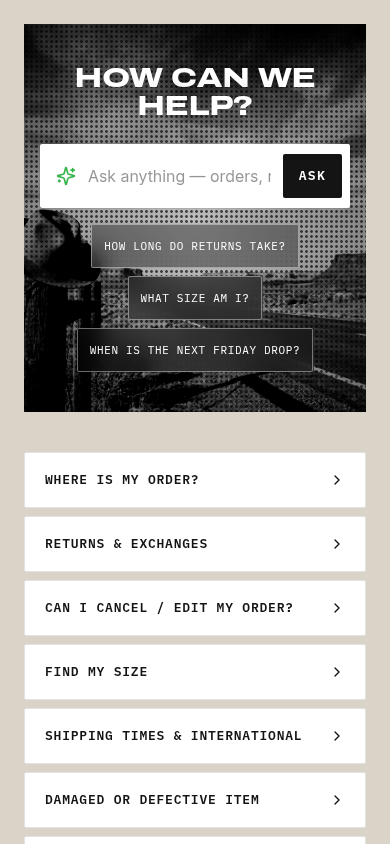
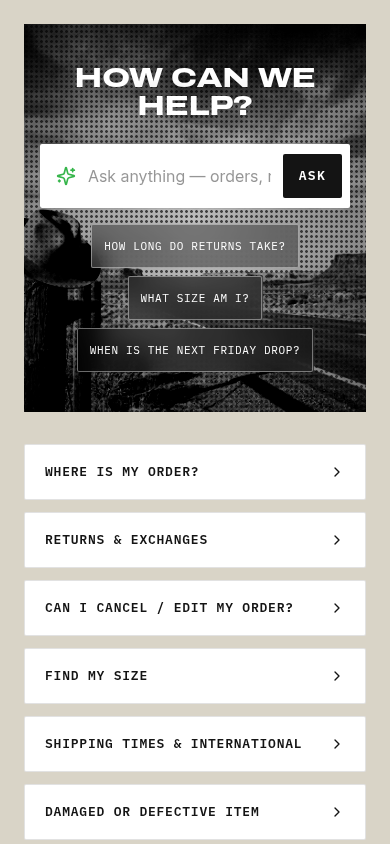
The Help Center home page now has 10 question boxes in 5 rows of 2, with more space throughout.
- **Removed:** Cleaning & care, Is my Goorin authentic?, Manufacturer guarantee, and Custom orders & embroidery. Their answers still come up if a customer types those questions into the search.
- **Spacing:** wider gaps between boxes, slightly taller boxes, and more room between the search banner, the boxes and the "Still need help?" line. Everything lines up on the same left and right edges.
- **Phones:** one column with comfortable gaps and no sideways scrolling.

I haven't opened the new screenshots myself yet, and there was no separate test run. Answers are still MOCKED.

Emergent-Commit-Key: 2fc6b4989215d99352b318223bae48a6ccec8bd7826fd690938668d7627f29c4

Changed region(s): [[0.0615, 0.7393, 0.9538, 1.0], [0.0615, 0.5237, 0.9538, 0.6777]]

diff --git a/frontend/src/pages/HelpHomePage.tsx b/frontend/src/pages/HelpHomePage.tsx
@@ -7,8 +7,7 @@ import { ChatLine, Thinking, useAsk } from '@/components/help/helpKit'
 const QUICK: [label: string, q: string][] = [
   ['Where is my order?', 'Where is my order?'], ['Returns & exchanges', 'How do I start a return?'], ['Can I cancel / edit my order?', 'Can I cancel / edit my order?'],
   ['Find my size', 'What size am I?'], ['Shipping times & international', 'How long does shipping take?'], ['Damaged or defective item', 'My hat arrived damaged'],
-  ['Friday Drops info', 'How do Friday Drops work?'], ['Payments & gift cards', 'Payment methods we accept'], ['Cleaning & care', 'How do I clean my hat?'],
-  ['Is my Goorin authentic?', 'Is my Goorin authentic?'], ['Manufacturer guarantee', 'What does the guarantee cover?'], ['Custom orders & embroidery', 'Do you do custom embroidery?'],
+  ['Friday Drops info', 'How do Friday Drops work?'], ['Payments & gift cards', 'Payment methods we accept'],
   ['Wholesale inquiry', 'Wholesale inquiry'], ['Brand ambassadors & talent', 'Brand ambassadors & talent inquiry'],
 ]
 const POPULAR = ['How long do returns take?', 'What size am I?', 'When is the next Friday Drop?']
@@ -17,7 +16,7 @@ export default function HelpHomePage() {
   const { answer, busy, ask, ref } = useAsk()
   return (
     <HelpShell>
-      <div className="mx-auto max-w-[1200px] space-y-12 max-sm:space-y-10">
+      <div className="mx-auto max-w-[1200px]">
         <section className="hc-halftone hc-hero relative flex h-[320px] items-center justify-center px-6 max-sm:h-auto max-sm:px-4 max-sm:py-10" data-testid="help-hero">
           <img src="/images/help/hero-desert.jpg" alt="" className="absolute inset-0 h-full w-full object-cover" />
           <div className="relative z-10 w-full max-w-[720px] text-center">
@@ -29,19 +28,19 @@ export default function HelpHomePage() {
           </div>
         </section>
 
-        <div ref={ref} className="scroll-mt-6 empty:hidden">
-          {(busy || answer) && <div className="mx-auto max-w-[960px]">{busy ? <Thinking /> : answer && <AnswerCard key={answer.q} a={answer} onAsk={ask} />}</div>}
+        <div ref={ref} className="scroll-mt-6">
+          {(busy || answer) && <div className="mx-auto mt-12 max-w-[960px] max-sm:mt-8">{busy ? <Thinking /> : answer && <AnswerCard key={answer.q} a={answer} onAsk={ask} />}</div>}
         </div>
 
-        <section className="grid grid-cols-2 gap-2 max-sm:grid-cols-1" aria-label="Quick questions" data-testid="help-quick">
+        <section className="mt-12 grid grid-cols-2 gap-4 max-sm:mt-8 max-sm:grid-cols-1 max-sm:gap-3" aria-label="Quick questions" data-testid="help-quick">
           {QUICK.map(([label, q], i) => (
-            <button key={label} type="button" onClick={() => ask(q)} className="hc-card hc-mono group flex h-14 items-center justify-between bg-white px-5 text-left text-[13px] font-semibold uppercase tracking-[0.06em]" data-testid={`help-quick-${i}`}>
+            <button key={label} type="button" onClick={() => ask(q)} className="hc-card hc-mono group flex h-16 items-center justify-between gap-4 bg-white px-6 text-left text-[13px] font-semibold uppercase tracking-[0.06em] max-sm:h-14 max-sm:px-5" data-testid={`help-quick-${i}`}>
               {label}<ChevronRight className="h-4 w-4 shrink-0 transition-transform group-hover:translate-x-0.5" aria-hidden />
             </button>
           ))}
         </section>
 
-        <ChatLine />
+        <div className="mt-16 max-sm:mt-8"><ChatLine /></div>
       </div>
     </HelpShell>
   )

diff --git a/frontend/src/components/help/helpKit.tsx b/frontend/src/components/help/helpKit.tsx
@@ -23,7 +23,7 @@ export function Thinking() {
 
 export function ChatLine() {
   return (
-    <section className="hc-box flex items-center justify-between gap-6 bg-white px-6 py-5 max-sm:flex-col max-sm:items-stretch max-sm:gap-4 max-sm:px-5" data-testid="help-chat-line">
+    <section className="hc-box flex items-center justify-between gap-6 bg-white px-8 py-7 max-sm:flex-col max-sm:items-stretch max-sm:gap-4 max-sm:px-5 max-sm:py-5" data-testid="help-chat-line">
       <p className="text-[15px] text-black/75"><span className="font-semibold text-[#141414]">Still need help?</span> Our AI answers instantly, and our crew replies within a day.</p>
       <button type="button" onClick={() => openChat()} className="hc-mono inline-flex h-11 shrink-0 items-center justify-center gap-2 bg-[#141414] px-5 text-[12px] font-semibold uppercase tracking-[0.1em] text-white transition-colors hover:bg-black" data-testid="help-open-chat">Open chat<ArrowRight className="h-4 w-4" aria-hidden /></button>
     </section>

diff --git a/frontend/src/components/help/HelpShell.tsx b/frontend/src/components/help/HelpShell.tsx
@@ -14,7 +14,7 @@ export function HelpShell({ children }: { children: React.ReactNode }) {
   const { pathname } = useLocation()
   useEffect(() => { window.scrollTo(0, 0) }, [pathname])
   return (
-    <div className="help-root w-full bg-[#D9D4C7] px-6 py-10 text-[#141414] sm:px-8 lg:px-12 max-sm:py-6" data-testid="help-root">
+    <div className="help-root w-full bg-[#D9D4C7] px-6 pb-12 pt-10 text-[#141414] sm:px-8 lg:px-12 max-sm:py-6" data-testid="help-root">
       {children}
     </div>
   )
